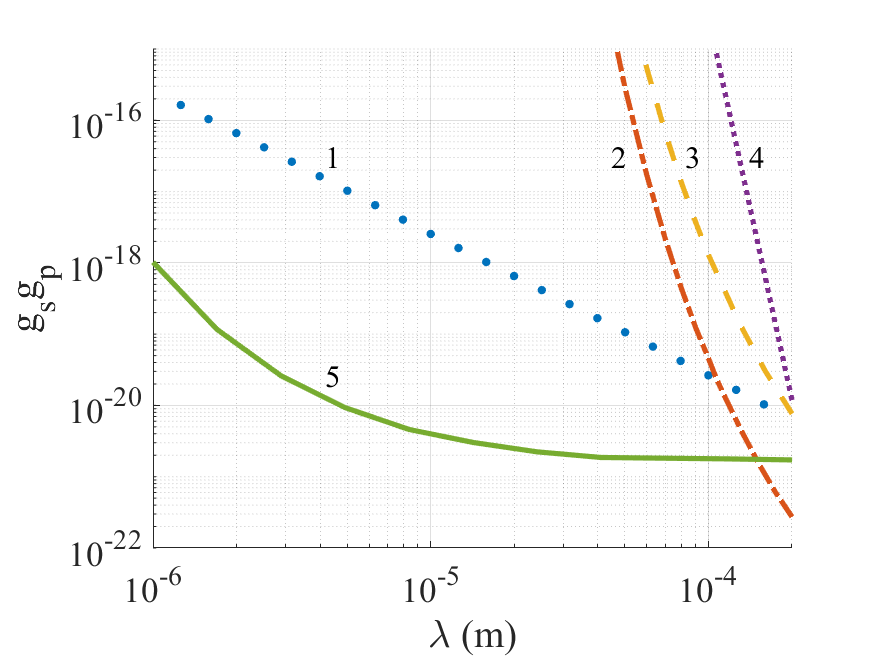
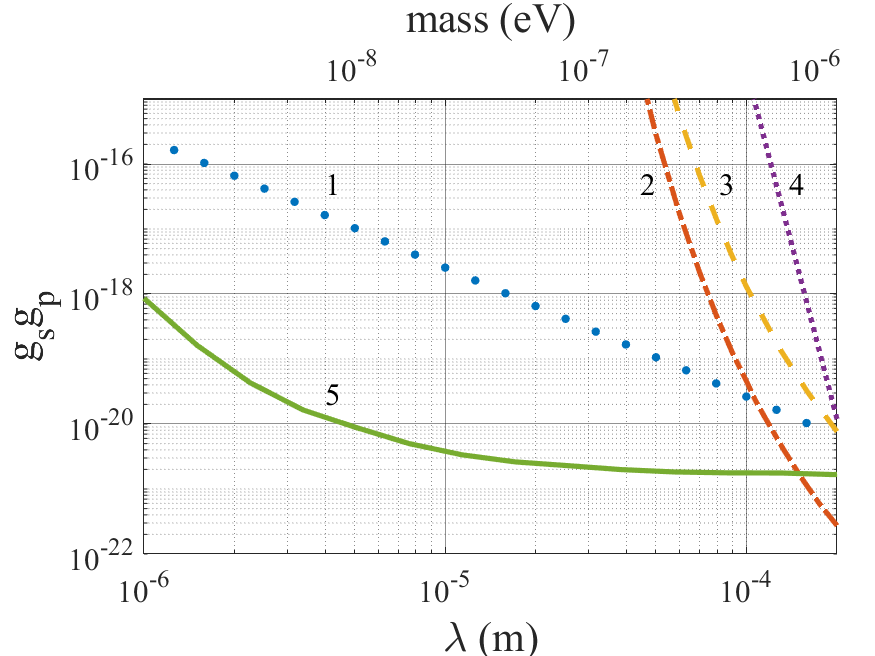
0605

diff --git a/LAB_CODE/plot_data.m b/LAB_CODE/plot_data.m
@@ -4,7 +4,7 @@ colors=npg(10); % Ten basic colors
 
 %% Input Area
 
-maindir=['\\ARTEMIS-PC\Data\2026-06-03' ...
+maindir=['\\ARTEMIS-PC\Data\2026-06-05' ...
     '\'];%数据来源路径
 
 plotnumber = 1; %是否画原子数
@@ -19,12 +19,12 @@ plotCatRatio = 0; %是否画cat state占比，并计算平均值
 
 rabi = 0; %是否为Rabi曲线
 ramsey = 0; %是否为Ramsey曲线
-dual_species = 1; %是否有两种同位素
+dual_species = 0; %是否有两种同位素
 normalized_detection = 0; %是否归一化探测，默认OD_2/OD_1
 differential_detection = 1; %是否差分探测
 
-first = 674; %第一个文件夹序号
-last = 703; %最后一个文件夹序号
+first = 220; %第一个文件夹序号
+last = 269; %最后一个文件夹序号
 
 %设置横坐标公式为: xaxis=(first-1:last-1)*coeff+intercept;
 intercept = 0; %第一组数据的自变量`
@@ -202,7 +202,7 @@ if plotnumber==1
     legend('Atom_1','Atom_2','Location','best');
     axis([min(xaxis) max(xaxis) 0 max( max(numberofatoms1)*1.1 , 1)]);
     %axis([min(xaxis) max(xaxis) min(numberofatoms1)*0.9 max(numberofatoms1)*1.1])
-    title('Number of Atoms','FontName','Arial','FontWeight','bold');
+    title('Number of Atoms','FontName','times new roman','FontWeight','bold');
     xlabel(setXlabel);
     grid on;
     box on;
@@ -219,7 +219,7 @@ if plotnumber==1
 
     end
 
-    set(gca,'FontSize',16,'FontName','Arial','FontWeight','bold');
+    set(gca,'FontSize',16,'FontName','times new roman','FontWeight','normal');
     saveas(h1,[maindir,'Abs-',num2str(last),'\Numberofatoms.png']);
 end
 
@@ -231,12 +231,12 @@ if plotODsum==1
     hold on
     plot(xaxis,ODsum2_mod,'.','Color',colors(2,:),'MarkerSize',20);
     axis([min(xaxis) max(xaxis) min([0 min(ODsum1_mod)]) max( [1.1*max(ODsum1_mod),1.1*max(ODsum2_mod),1] ) ]);
-    title('OD Sum Modified','FontName','Arial','FontWeight','bold');
+    title('OD Sum Modified','FontName','times new roman','FontWeight','bold');
     xlabel(setXlabel);
     legend('OD_1','OD_2','Location','best');
     %legend('Yb-173','Yb-171','Location','best');
     grid on;
-    set(gca,'FontSize',16,'FontName','Arial','FontWeight','bold');
+    set(gca,'FontSize',16,'FontName','times new roman','FontWeight','normal');
 
     if dual_species == 1
 
@@ -257,7 +257,7 @@ if plotODsum==1
     plot(xaxis,ODsum12_mod,'.','Color',colors(1,:),'MarkerSize',20);
     hold on
     axis([min(xaxis) max(xaxis) min([0 min(ODsum12_mod)]) max([ODsum12_mod*1.1 ; 1])])
-    title('OD Sum','FontName','Arial','FontWeight','bold');
+    title('OD Sum','FontName','times new roman','FontWeight','bold');
     xlabel(setXlabel);
     grid on;
     box on;
@@ -272,7 +272,7 @@ if plotODsum==1
     set(gca,'XScale','linear');
     %set(gca,'YScale','log');
 
-    set(gca,'FontSize',16,'FontName','Arial','FontWeight','bold');
+    set(gca,'FontSize',16,'FontName','times new roman','FontWeight','normal');
     saveas(h2_0,[maindir,'Abs-',num2str(last),'\ODsum12.png'])
 
     %% Plot time
@@ -349,7 +349,7 @@ if plotprecession==1
 
         ylabel('OD_2/OD_1');
         %ylabel('OD_1/OD_2');
-        %title('Lattice AM 1V','FontName','Arial','FontWeight','bold');
+        %title('Lattice AM 1V','FontName','times new roman','FontWeight','bold');
 
         %set(gca,'XScale','log','YScale','log');
 
@@ -395,7 +395,7 @@ if plotprecession==1
 
     grid on;
     box on;
-    set(gca,'FontSize',16,'FontName','Arial','FontWeight','bold');
+    set(gca,'FontSize',16,'FontName','times new roman','FontWeight','normal');
     %set(gca,'XScale','log');
     %set(gca,'YScale','log');
 
@@ -513,8 +513,8 @@ if plot2D==1
     ylim([1-0.5,length(second_para)+0.5]);
     xticks([1:length(first_para)]);
     yticks([1:length(second_para)]);
-    set(gca,'XTickLabel',first_para,'FontName','Arial','FontWeight','bold');
-    set(gca,'YTickLabel',second_para,'FontName','Arial','FontWeight','bold');
+    set(gca,'XTickLabel',first_para,'FontName','times new roman','FontWeight','normal');
+    set(gca,'YTickLabel',second_para,'FontName','times new roman','FontWeight','normal');
     xlabel(xlabel_2D);
     ylabel(ylabel_2D);
     view([0 90]);
@@ -533,11 +533,11 @@ if plotCatRatio == 1 && dual_species == 0
     ratio_std = std(ratio);
     plot(xaxis,ratio,'.','Color',colors(1,:),'MarkerSize',20);
     axis([min(xaxis) max(xaxis) 0 1.5])
-    title('Cat Ratio','FontName','Arial','FontWeight','bold');
+    title('Cat Ratio','FontName','times new roman','FontWeight','bold');
     xlabel(setXlabel);
     ylabel('Ratio of Stretched States');
     grid on;
-    set(gca,'FontSize',16,'FontName','Arial','FontWeight','bold');
+    set(gca,'FontSize',16,'FontName','times new roman','FontWeight','normal');
 %     legend(['mean = ',num2str(roundn(ratio_mean,-4)),...
 %         newline 'std = ',num2str(roundn(ratio_std,-4))],...
 %         'Location','best');
@@ -555,11 +555,11 @@ elseif plotCatRatio == 1 && dual_species == 1
     ratio_std = std(ratio);
     plot(xaxis,ratio,'.','Color',colors(1,:),'MarkerSize',20);
     axis([min(xaxis) max(xaxis) 0 min(1.5,max(ratio))]);
-    title('Cat Ratio','FontName','Arial','FontWeight','bold');
+    title('Cat Ratio','FontName','times new roman','FontWeight','bold');
     xlabel(setXlabel);
     ylabel('Ratio of Stretched States');
     grid on;
-    set(gca,'FontSize',16,'FontName','Arial','FontWeight','bold');
+    set(gca,'FontSize',16,'FontName','times new roman','FontWeight','normal');
 %     legend(['mean = ',num2str(roundn(ratio_mean,-4)),...
 %         newline 'std = ',num2str(roundn(ratio_std,-4))],...
 %         'Location','best');

diff --git a/LAB_CODE/repeated_probe.m b/LAB_CODE/repeated_probe.m
@@ -4,7 +4,7 @@ colors=npg(10); % Ten basic colors
 
 %% Input Area
 
-maindir=['\\ARTEMIS-PC\Data\2026-06-03' ...
+maindir=['\\ARTEMIS-PC\Data\2026-06-05' ...
     '\'];%数据来源路径
 
 repeat = 3;   % 探测组数,照片数的一半
@@ -27,8 +27,8 @@ offset = 0;   % 是否考虑曲线上下不对称
 
 save_data = 1;   % 是否保存
 
-first = 658;   % 第一个文件夹序号
-last = 673;   % 最后一个文件夹序号
+first = 270;   % 第一个文件夹序号
+last = 295;   % 最后一个文件夹序号
 
 % 设置横坐标公式为: xaxis=(first-1:last-1)*coeff+intercept;
 intercept = 0;   % 第一组数据的自变量`